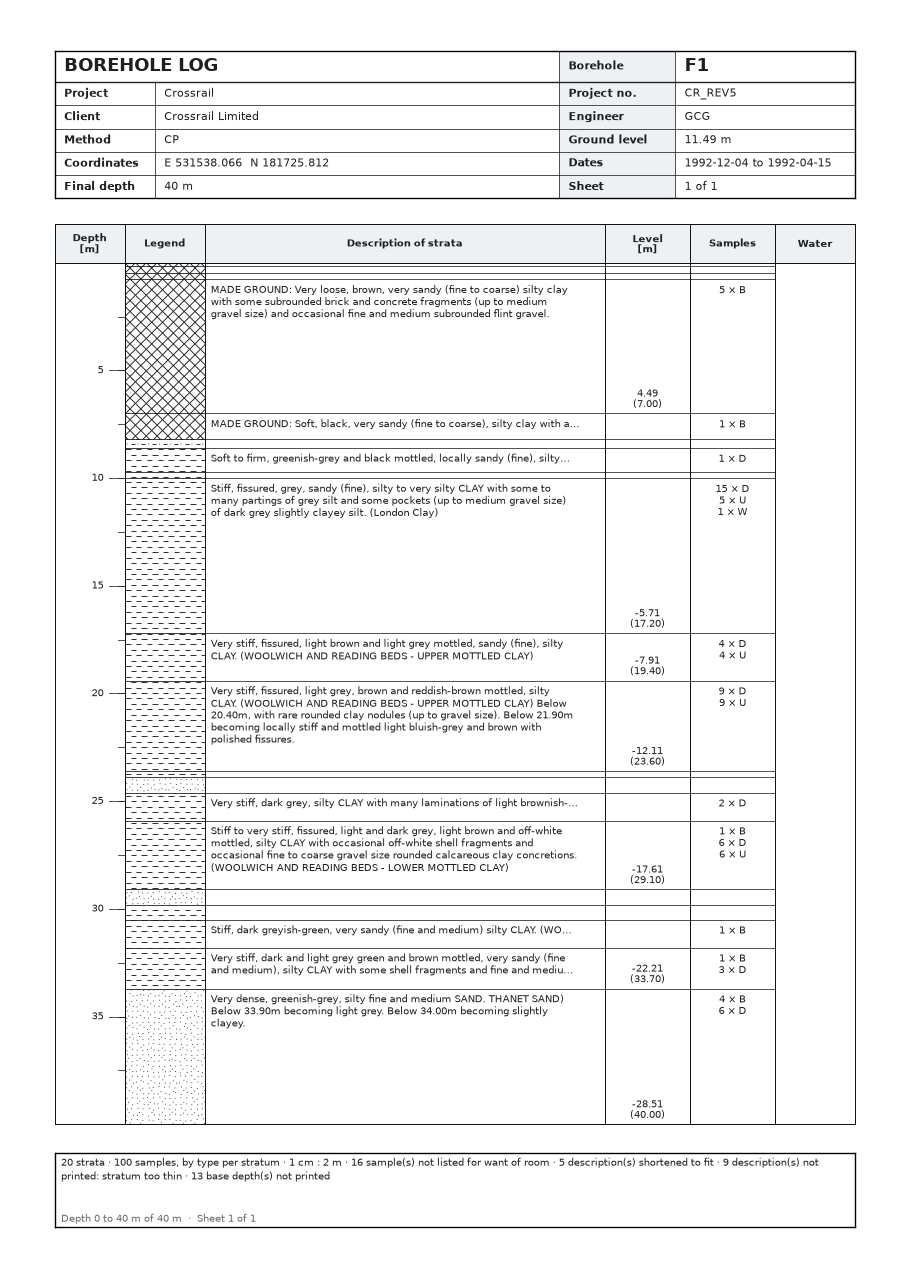
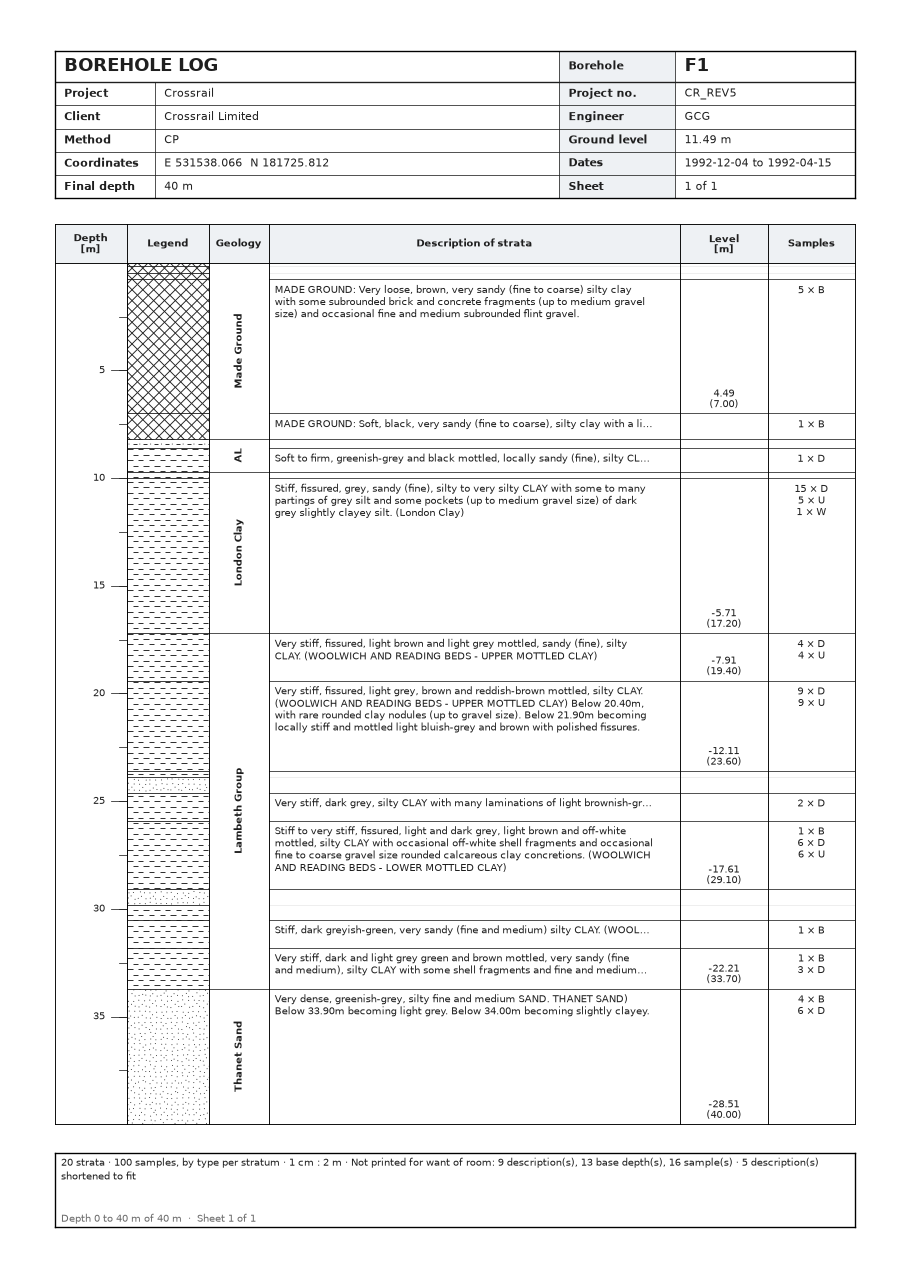
docs(blog): draw post 1's log with each geological unit named once
The log repeated the same unit stratum by stratum. It is now drawn with
outcrop 0.1.1's Geology column, which brackets the strata sharing a unit.
The Crossrail file gives its units as codes, so the figure passes the names in.

diff --git a/web/landing/blog/drafts/figures.py b/web/landing/blog/drafts/figures.py
@@ -1,6 +1,6 @@
 """Draw the image each post carries, into that post's folder.
 
-    uv run --with laterite --with "laterite-outcrop[laterite]" figures.py \
+    uv run --with laterite --with "laterite-outcrop[laterite]>=0.1.1" figures.py \
         <crossrail.ags> <fugro-merged.ags>
 
 The first file is the BGS Crossrail export posts 1 and 4 use; the second is
@@ -101,8 +101,18 @@ def bare(ax: plt.Axes) -> None:
     ax.tick_params(length=0, colors=INK)
 
 
+# The Crossrail file uses these unit codes and never spells them out.
+CROSSRAIL_UNITS = {
+    "MG": "Made Ground",
+    "AL": "Alluvium",
+    "LC": "London Clay",
+    "LG": "Lambeth Group",
+    "TS": "Thanet Sand",
+}
+
+
 def post_1(crossrail: laterite.Ags4File) -> None:
-    fig = plots.borehole_log(crossrail, "F1")
+    fig = plots.borehole_log(crossrail, "F1", unit_names=CROSSRAIL_UNITS)
     fig.savefig(HERE / "post-1-one-borehole" / "log.png", dpi=110)
     plt.close(fig)
 

diff --git a/web/landing/blog/drafts/post-1-one-borehole/linkedin.md b/web/landing/blog/drafts/post-1-one-borehole/linkedin.md
@@ -26,7 +26,7 @@ SAMP   100 rows
 
 No loop over groups, no filter written eight times, no key columns to remember. laterite reads which groups hang off the hole from the file itself.
 
-The log below is borehole F1 from Crossrail's Farringdon investigation, drawn from those frames: made ground over London Clay, the Woolwich and Reading Beds, and Thanet Sand from 33.7 m.
+The log below is borehole F1 from Crossrail's Farringdon investigation, drawn from those frames: made ground and alluvium over London Clay, the Lambeth Group, and Thanet Sand from 33.7 m.
 
 The full script, and the two things to watch for, are in the article: [link]
 

diff --git a/web/landing/blog/drafts/post-1-one-borehole/article.md b/web/landing/blog/drafts/post-1-one-borehole/article.md
@@ -118,6 +118,10 @@ from outcrop import ags as plots
 plots.borehole_log("your_file.ags", "F1").savefig("F1.pdf")
 ```
 
+The Geology column brackets the strata that share a unit and names it once.
+This file gives its units as codes (`LC`, `TS`) and never spells them out, so
+the figure passes the names in: `unit_names={"LC": "London Clay", ...}`.
+
 ## No file to hand?
 
 Everything above runs on your own AGS4 file. If you want the one used here,
